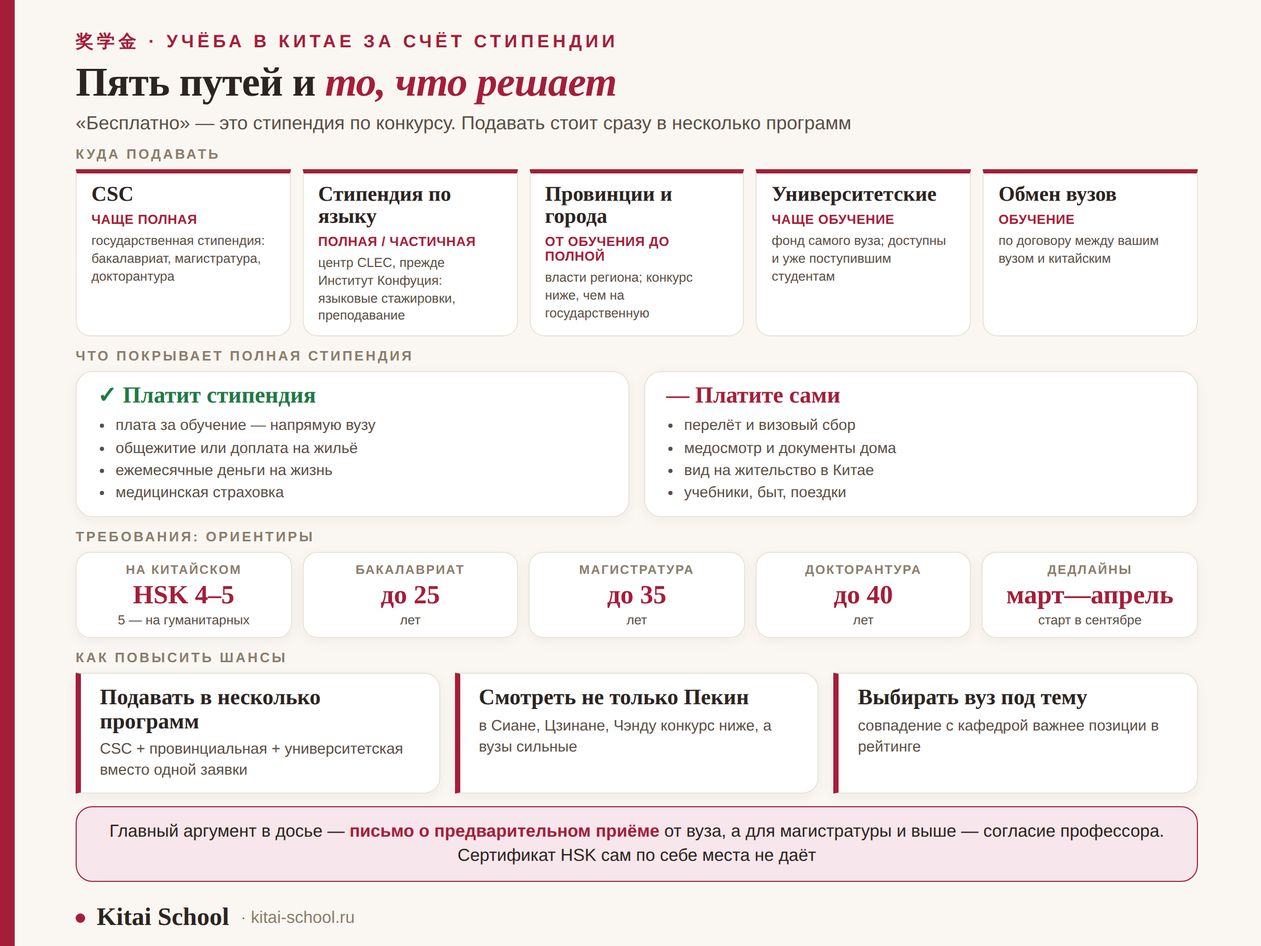
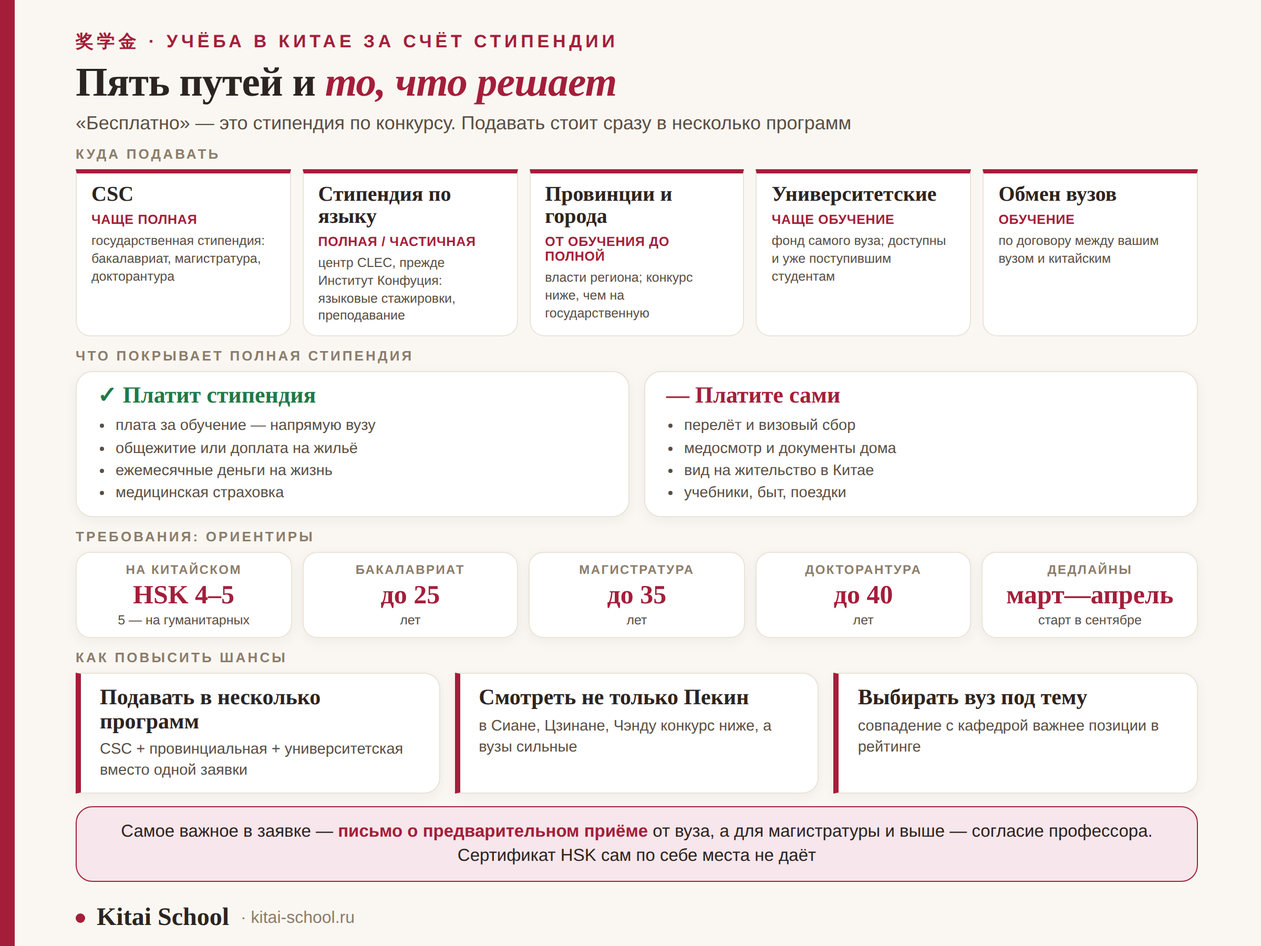
Убрано слово «досье» из статьи про бюджет и инфографики
Заменено на понятное «заявка»: «Самое важное в заявке», «не слабая
заявка, а опоздание», «поможем с заявкой». Инфографика перерисована,
деривативы пересобраны.

Claude-Session: https://claude.ai/code/session_017dS7Wuw6MNB5fnZSr6hVh2

Changed region(s): [[0.0938, 0.8711, 0.9375, 0.9022]]

diff --git a/content/blog/kak-postupit-v-kitaj-na-byudzhet.TILDA-BLOCK.html b/content/blog/kak-postupit-v-kitaj-na-byudzhet.TILDA-BLOCK.html
@@ -139,7 +139,7 @@
 
 <div class="tldr">
   <b>Коротко</b>
-  <p>Правильнее говорить не «бесплатно», а <b>за счёт стипендии</b>. Полная стипендия снимает плату за учёбу, даёт общежитие, страховку и деньги на жизнь; перелёт, визовый сбор и медосмотр остаются вашими. Путей к оплаченному месту <b>пять</b>: CSC, стипендия по китайскому языку, провинциальные, университетские и обменные программы. Требования: <b>HSK 4–5</b> для китайскоязычных программ, возрастные рамки, оценки и учебный план. Главный аргумент в досье — <b>письмо о предварительном приёме</b> от вуза.</p>
+  <p>Правильнее говорить не «бесплатно», а <b>за счёт стипендии</b>. Полная стипендия снимает плату за учёбу, даёт общежитие, страховку и деньги на жизнь; перелёт, визовый сбор и медосмотр остаются вашими. Путей к оплаченному месту <b>пять</b>: CSC, стипендия по китайскому языку, провинциальные, университетские и обменные программы. Требования: <b>HSK 4–5</b> для китайскоязычных программ, возрастные рамки, оценки и учебный план. Самое важное в заявке — <b>письмо о предварительном приёме</b> от вуза.</p>
 </div>
 
 <h2>Что значит «на бюджет»: <span class="italic">что покрывают и что нет</span></h2>
@@ -179,7 +179,7 @@
 </table>
 </div>
 <p>Самая частая рабочая стратегия — подавать одновременно на несколько программ: CSC через вуз, отдельно на провинциальную и на университетскую. Это не запрещено, а вот держать две китайские государственные стипендии одновременно нельзя — если выиграете обе, придётся выбрать одну.</p>
-<p class="note">Как устроена именно государственная стипендия — каналы подачи Type A, B и C, учебный план и интервью — мы разобрали подробно в <a href="https://kitai-school.ru/article/stipendiya-csc-v-kitae-polnyy-gayd-po-polucheniu-dlya-studentov" target="_blank" rel="noopener">полном гайде по стипендии CSC</a>. А сборку сильного досье — в статье <a href="https://kitai-school.ru/article/granty-na-obuchenie-v-kitae" target="_blank" rel="noopener">как выиграть грант на обучение в Китае</a>. Эта статья — общая карта, чтобы понять, куда идти.</p>
+<p class="note">Как устроена именно государственная стипендия — каналы подачи Type A, B и C, учебный план и интервью — мы разобрали подробно в <a href="https://kitai-school.ru/article/stipendiya-csc-v-kitae-polnyy-gayd-po-polucheniu-dlya-studentov" target="_blank" rel="noopener">полном гайде по стипендии CSC</a>. А как собрать сильную заявку — в статье <a href="https://kitai-school.ru/article/granty-na-obuchenie-v-kitae" target="_blank" rel="noopener">как выиграть грант на обучение в Китае</a>. Эта статья — общая карта, чтобы понять, куда идти.</p>
 
 <h2>Реальные требования: <span class="italic">язык, возраст, оценки</span></h2>
 <p>Требования отличаются по программам, но костяк везде один:</p>
@@ -189,7 +189,7 @@
   <thead><tr><th>Критерий</th><th>Что обычно требуется</th></tr></thead>
   <tbody>
     <tr><td>Язык (программы на китайском)</td><td><b>HSK 4</b> как минимум, на гуманитарных направлениях чаще <b>HSK 5</b></td></tr>
-    <tr><td>Язык (программы на английском)</td><td>IELTS или TOEFL; HSK не требуется, но плюс в досье</td></tr>
+    <tr><td>Язык (программы на английском)</td><td>IELTS или TOEFL; HSK не требуется, но будет плюсом</td></tr>
     <tr><td>Возраст</td><td>бакалавриат до 25, магистратура до 35, докторантура до 40 лет</td></tr>
     <tr><td>Образование</td><td>аттестат для бакалавриата, диплом предыдущей ступени — для остальных</td></tr>
     <tr><td>Оценки</td><td>средний балл выше среднего; слабые оценки перевешивают планом и рекомендациями</td></tr>
@@ -208,7 +208,7 @@
 </div>
 
 <h2>Календарь подачи: <span class="italic">когда что делать</span></h2>
-<p>Главная причина провала — не слабое досье, а опоздание. Документы вроде нотариального перевода и медосмотра готовятся неделями, поэтому отсчитывать нужно назад от дедлайна:</p>
+<p>Главная причина провала — не слабая заявка, а опоздание. Документы вроде нотариального перевода и медосмотра готовятся неделями, поэтому отсчитывать нужно назад от дедлайна:</p>
 <div class="table-wrap">
 <table>
   <caption>Примерный цикл подачи на сентябрьский набор.</caption>
@@ -290,7 +290,7 @@
 </div>
 
 <div class="cta">
-  <p>Языковой порог — то, что чаще всего отделяет от заявки. Мы готовим к <a href="https://kitai-school.ru/hsk-exam" target="_blank" rel="noopener">HSK 4 и HSK 5</a> и помогаем с учебным планом и письмами профессорам: разбираем формулировки, чтобы досье выглядело убедительно. Первый урок бесплатный.</p>
+  <p>Языковой порог — то, что чаще всего отделяет от заявки. Мы готовим к <a href="https://kitai-school.ru/hsk-exam" target="_blank" rel="noopener">HSK 4 и HSK 5</a> и помогаем с учебным планом и письмами профессорам: разбираем формулировки, чтобы заявка выглядела убедительно. Первый урок бесплатный.</p>
   <p><a class="btn" href="#popup:zayavka">Записаться на консультацию →</a></p>
   <p>Или напишите слово <b>БЮДЖЕТ</b> нашему менеджеру в <a href="https://telegram.me/manager_kitai_school" target="_blank" rel="noopener">Telegram</a> — подскажем, с чего начать в вашем случае.</p>
 </div>
@@ -334,7 +334,7 @@
     <a class="side-link" href="https://kitai-school.ru/onlayn-kursy-kitayskogo" target="_blank" rel="noopener"><svg viewBox="0 0 24 24" fill="none" stroke="currentColor" stroke-width="1.8" stroke-linecap="round" stroke-linejoin="round"><rect x="2" y="4" width="20" height="14" rx="2"/><path d="M8 21h8M12 18v3"/></svg>Онлайн-курсы</a>
     <a class="side-link" href="https://kitai-school.ru/ks-indiv" target="_blank" rel="noopener"><svg viewBox="0 0 24 24" fill="none" stroke="currentColor" stroke-width="1.8" stroke-linecap="round" stroke-linejoin="round"><circle cx="12" cy="8" r="4"/><path d="M4 21c0-4 3.5-6 8-6s8 2 8 6"/></svg>Индивидуально</a>
     <a class="side-link" href="https://kitai-school.ru/kitayskiy-dlya-detey" target="_blank" rel="noopener"><svg viewBox="0 0 24 24" fill="none" stroke="currentColor" stroke-width="1.8" stroke-linecap="round" stroke-linejoin="round"><circle cx="12" cy="12" r="9"/><path d="M9 10h.01M15 10h.01M8.5 15a4 4 0 0 0 7 0"/></svg>Китайский детям</a>
-    <p class="side-note">Доведём язык до HSK 4–5 и поможем с досье — первый урок бесплатно</p>
+    <p class="side-note">Доведём язык до HSK 4–5 и поможем с заявкой — первый урок бесплатно</p>
     <a class="side-btn" href="#popup:zayavka">Пробный урок →</a>
   </div>
 </aside>

diff --git a/content/blog/kak-postupit-v-kitaj-na-byudzhet.TILDA.html b/content/blog/kak-postupit-v-kitaj-na-byudzhet.TILDA.html
@@ -210,7 +210,7 @@
 
 <div class="tldr">
   <b>Коротко</b>
-  <p>Правильнее говорить не «бесплатно», а <b>за счёт стипендии</b>. Полная стипендия снимает плату за учёбу, даёт общежитие, страховку и деньги на жизнь; перелёт, визовый сбор и медосмотр остаются вашими. Путей к оплаченному месту <b>пять</b>: CSC, стипендия по китайскому языку, провинциальные, университетские и обменные программы. Требования: <b>HSK 4–5</b> для китайскоязычных программ, возрастные рамки, оценки и учебный план. Главный аргумент в досье — <b>письмо о предварительном приёме</b> от вуза.</p>
+  <p>Правильнее говорить не «бесплатно», а <b>за счёт стипендии</b>. Полная стипендия снимает плату за учёбу, даёт общежитие, страховку и деньги на жизнь; перелёт, визовый сбор и медосмотр остаются вашими. Путей к оплаченному месту <b>пять</b>: CSC, стипендия по китайскому языку, провинциальные, университетские и обменные программы. Требования: <b>HSK 4–5</b> для китайскоязычных программ, возрастные рамки, оценки и учебный план. Самое важное в заявке — <b>письмо о предварительном приёме</b> от вуза.</p>
 </div>
 
 <h2>Что значит «на бюджет»: <span class="italic">что покрывают и что нет</span></h2>
@@ -250,7 +250,7 @@
 </table>
 </div>
 <p>Самая частая рабочая стратегия — подавать одновременно на несколько программ: CSC через вуз, отдельно на провинциальную и на университетскую. Это не запрещено, а вот держать две китайские государственные стипендии одновременно нельзя — если выиграете обе, придётся выбрать одну.</p>
-<p class="note">Как устроена именно государственная стипендия — каналы подачи Type A, B и C, учебный план и интервью — мы разобрали подробно в <a href="https://kitai-school.ru/article/stipendiya-csc-v-kitae-polnyy-gayd-po-polucheniu-dlya-studentov" target="_blank" rel="noopener">полном гайде по стипендии CSC</a>. А сборку сильного досье — в статье <a href="https://kitai-school.ru/article/granty-na-obuchenie-v-kitae" target="_blank" rel="noopener">как выиграть грант на обучение в Китае</a>. Эта статья — общая карта, чтобы понять, куда идти.</p>
+<p class="note">Как устроена именно государственная стипендия — каналы подачи Type A, B и C, учебный план и интервью — мы разобрали подробно в <a href="https://kitai-school.ru/article/stipendiya-csc-v-kitae-polnyy-gayd-po-polucheniu-dlya-studentov" target="_blank" rel="noopener">полном гайде по стипендии CSC</a>. А как собрать сильную заявку — в статье <a href="https://kitai-school.ru/article/granty-na-obuchenie-v-kitae" target="_blank" rel="noopener">как выиграть грант на обучение в Китае</a>. Эта статья — общая карта, чтобы понять, куда идти.</p>
 
 <h2>Реальные требования: <span class="italic">язык, возраст, оценки</span></h2>
 <p>Требования отличаются по программам, но костяк везде один:</p>
@@ -260,7 +260,7 @@
   <thead><tr><th>Критерий</th><th>Что обычно требуется</th></tr></thead>
   <tbody>
     <tr><td>Язык (программы на китайском)</td><td><b>HSK 4</b> как минимум, на гуманитарных направлениях чаще <b>HSK 5</b></td></tr>
-    <tr><td>Язык (программы на английском)</td><td>IELTS или TOEFL; HSK не требуется, но плюс в досье</td></tr>
+    <tr><td>Язык (программы на английском)</td><td>IELTS или TOEFL; HSK не требуется, но будет плюсом</td></tr>
     <tr><td>Возраст</td><td>бакалавриат до 25, магистратура до 35, докторантура до 40 лет</td></tr>
     <tr><td>Образование</td><td>аттестат для бакалавриата, диплом предыдущей ступени — для остальных</td></tr>
     <tr><td>Оценки</td><td>средний балл выше среднего; слабые оценки перевешивают планом и рекомендациями</td></tr>
@@ -279,7 +279,7 @@
 </div>
 
 <h2>Календарь подачи: <span class="italic">когда что делать</span></h2>
-<p>Главная причина провала — не слабое досье, а опоздание. Документы вроде нотариального перевода и медосмотра готовятся неделями, поэтому отсчитывать нужно назад от дедлайна:</p>
+<p>Главная причина провала — не слабая заявка, а опоздание. Документы вроде нотариального перевода и медосмотра готовятся неделями, поэтому отсчитывать нужно назад от дедлайна:</p>
 <div class="table-wrap">
 <table>
   <caption>Примерный цикл подачи на сентябрьский набор.</caption>
@@ -361,7 +361,7 @@
 </div>
 
 <div class="cta">
-  <p>Языковой порог — то, что чаще всего отделяет от заявки. Мы готовим к <a href="https://kitai-school.ru/hsk-exam" target="_blank" rel="noopener">HSK 4 и HSK 5</a> и помогаем с учебным планом и письмами профессорам: разбираем формулировки, чтобы досье выглядело убедительно. Первый урок бесплатный.</p>
+  <p>Языковой порог — то, что чаще всего отделяет от заявки. Мы готовим к <a href="https://kitai-school.ru/hsk-exam" target="_blank" rel="noopener">HSK 4 и HSK 5</a> и помогаем с учебным планом и письмами профессорам: разбираем формулировки, чтобы заявка выглядела убедительно. Первый урок бесплатный.</p>
   <p><a class="btn" href="#popup:zayavka">Записаться на консультацию →</a></p>
   <p>Или напишите слово <b>БЮДЖЕТ</b> нашему менеджеру в <a href="https://telegram.me/manager_kitai_school" target="_blank" rel="noopener">Telegram</a> — подскажем, с чего начать в вашем случае.</p>
 </div>
@@ -405,7 +405,7 @@
     <a class="side-link" href="https://kitai-school.ru/onlayn-kursy-kitayskogo" target="_blank" rel="noopener"><svg viewBox="0 0 24 24" fill="none" stroke="currentColor" stroke-width="1.8" stroke-linecap="round" stroke-linejoin="round"><rect x="2" y="4" width="20" height="14" rx="2"/><path d="M8 21h8M12 18v3"/></svg>Онлайн-курсы</a>
     <a class="side-link" href="https://kitai-school.ru/ks-indiv" target="_blank" rel="noopener"><svg viewBox="0 0 24 24" fill="none" stroke="currentColor" stroke-width="1.8" stroke-linecap="round" stroke-linejoin="round"><circle cx="12" cy="8" r="4"/><path d="M4 21c0-4 3.5-6 8-6s8 2 8 6"/></svg>Индивидуально</a>
     <a class="side-link" href="https://kitai-school.ru/kitayskiy-dlya-detey" target="_blank" rel="noopener"><svg viewBox="0 0 24 24" fill="none" stroke="currentColor" stroke-width="1.8" stroke-linecap="round" stroke-linejoin="round"><circle cx="12" cy="12" r="9"/><path d="M9 10h.01M15 10h.01M8.5 15a4 4 0 0 0 7 0"/></svg>Китайский детям</a>
-    <p class="side-note">Доведём язык до HSK 4–5 и поможем с досье — первый урок бесплатно</p>
+    <p class="side-note">Доведём язык до HSK 4–5 и поможем с заявкой — первый урок бесплатно</p>
     <a class="side-btn" href="#popup:zayavka">Пробный урок →</a>
   </div>
 </aside>

diff --git a/content/blog/kak-postupit-v-kitaj-na-byudzhet.html b/content/blog/kak-postupit-v-kitaj-na-byudzhet.html
@@ -248,7 +248,7 @@
 
 <div class="tldr">
   <b>Коротко</b>
-  <p>Правильнее говорить не «бесплатно», а <b>за счёт стипендии</b>. Полная стипендия снимает плату за учёбу, даёт общежитие, страховку и деньги на жизнь; перелёт, визовый сбор и медосмотр остаются вашими. Путей к оплаченному месту <b>пять</b>: CSC, стипендия по китайскому языку, провинциальные, университетские и обменные программы. Требования: <b>HSK 4–5</b> для китайскоязычных программ, возрастные рамки, оценки и учебный план. Главный аргумент в досье — <b>письмо о предварительном приёме</b> от вуза.</p>
+  <p>Правильнее говорить не «бесплатно», а <b>за счёт стипендии</b>. Полная стипендия снимает плату за учёбу, даёт общежитие, страховку и деньги на жизнь; перелёт, визовый сбор и медосмотр остаются вашими. Путей к оплаченному месту <b>пять</b>: CSC, стипендия по китайскому языку, провинциальные, университетские и обменные программы. Требования: <b>HSK 4–5</b> для китайскоязычных программ, возрастные рамки, оценки и учебный план. Самое важное в заявке — <b>письмо о предварительном приёме</b> от вуза.</p>
 </div>
 
 <h2>Что значит «на бюджет»: <span class="italic">что покрывают и что нет</span></h2>
@@ -288,7 +288,7 @@
 </table>
 </div>
 <p>Самая частая рабочая стратегия — подавать одновременно на несколько программ: CSC через вуз, отдельно на провинциальную и на университетскую. Это не запрещено, а вот держать две китайские государственные стипендии одновременно нельзя — если выиграете обе, придётся выбрать одну.</p>
-<p class="note">Как устроена именно государственная стипендия — каналы подачи Type A, B и C, учебный план и интервью — мы разобрали подробно в <a href="https://kitai-school.ru/article/stipendiya-csc-v-kitae-polnyy-gayd-po-polucheniu-dlya-studentov" target="_blank" rel="noopener">полном гайде по стипендии CSC</a>. А сборку сильного досье — в статье <a href="https://kitai-school.ru/article/granty-na-obuchenie-v-kitae" target="_blank" rel="noopener">как выиграть грант на обучение в Китае</a>. Эта статья — общая карта, чтобы понять, куда идти.</p>
+<p class="note">Как устроена именно государственная стипендия — каналы подачи Type A, B и C, учебный план и интервью — мы разобрали подробно в <a href="https://kitai-school.ru/article/stipendiya-csc-v-kitae-polnyy-gayd-po-polucheniu-dlya-studentov" target="_blank" rel="noopener">полном гайде по стипендии CSC</a>. А как собрать сильную заявку — в статье <a href="https://kitai-school.ru/article/granty-na-obuchenie-v-kitae" target="_blank" rel="noopener">как выиграть грант на обучение в Китае</a>. Эта статья — общая карта, чтобы понять, куда идти.</p>
 
 <h2>Реальные требования: <span class="italic">язык, возраст, оценки</span></h2>
 <p>Требования отличаются по программам, но костяк везде один:</p>
@@ -298,7 +298,7 @@
   <thead><tr><th>Критерий</th><th>Что обычно требуется</th></tr></thead>
   <tbody>
     <tr><td>Язык (программы на китайском)</td><td><b>HSK 4</b> как минимум, на гуманитарных направлениях чаще <b>HSK 5</b></td></tr>
-    <tr><td>Язык (программы на английском)</td><td>IELTS или TOEFL; HSK не требуется, но плюс в досье</td></tr>
+    <tr><td>Язык (программы на английском)</td><td>IELTS или TOEFL; HSK не требуется, но будет плюсом</td></tr>
     <tr><td>Возраст</td><td>бакалавриат до 25, магистратура до 35, докторантура до 40 лет</td></tr>
     <tr><td>Образование</td><td>аттестат для бакалавриата, диплом предыдущей ступени — для остальных</td></tr>
     <tr><td>Оценки</td><td>средний балл выше среднего; слабые оценки перевешивают планом и рекомендациями</td></tr>
@@ -317,7 +317,7 @@
 </div>
 
 <h2>Календарь подачи: <span class="italic">когда что делать</span></h2>
-<p>Главная причина провала — не слабое досье, а опоздание. Документы вроде нотариального перевода и медосмотра готовятся неделями, поэтому отсчитывать нужно назад от дедлайна:</p>
+<p>Главная причина провала — не слабая заявка, а опоздание. Документы вроде нотариального перевода и медосмотра готовятся неделями, поэтому отсчитывать нужно назад от дедлайна:</p>
 <div class="table-wrap">
 <table>
   <caption>Примерный цикл подачи на сентябрьский набор.</caption>
@@ -399,7 +399,7 @@
 </div>
 
 <div class="cta">
-  <p>Языковой порог — то, что чаще всего отделяет от заявки. Мы готовим к <a href="https://kitai-school.ru/hsk-exam" target="_blank" rel="noopener">HSK 4 и HSK 5</a> и помогаем с учебным планом и письмами профессорам: разбираем формулировки, чтобы досье выглядело убедительно. Первый урок бесплатный.</p>
+  <p>Языковой порог — то, что чаще всего отделяет от заявки. Мы готовим к <a href="https://kitai-school.ru/hsk-exam" target="_blank" rel="noopener">HSK 4 и HSK 5</a> и помогаем с учебным планом и письмами профессорам: разбираем формулировки, чтобы заявка выглядела убедительно. Первый урок бесплатный.</p>
   <p><a class="btn" href="#popup:zayavka">Записаться на консультацию →</a></p>
   <p>Или напишите слово <b>БЮДЖЕТ</b> нашему менеджеру в <a href="https://telegram.me/manager_kitai_school" target="_blank" rel="noopener">Telegram</a> — подскажем, с чего начать в вашем случае.</p>
 </div>
@@ -443,7 +443,7 @@
     <a class="side-link" href="https://kitai-school.ru/onlayn-kursy-kitayskogo" target="_blank" rel="noopener"><svg viewBox="0 0 24 24" fill="none" stroke="currentColor" stroke-width="1.8" stroke-linecap="round" stroke-linejoin="round"><rect x="2" y="4" width="20" height="14" rx="2"/><path d="M8 21h8M12 18v3"/></svg>Онлайн-курсы</a>
     <a class="side-link" href="https://kitai-school.ru/ks-indiv" target="_blank" rel="noopener"><svg viewBox="0 0 24 24" fill="none" stroke="currentColor" stroke-width="1.8" stroke-linecap="round" stroke-linejoin="round"><circle cx="12" cy="8" r="4"/><path d="M4 21c0-4 3.5-6 8-6s8 2 8 6"/></svg>Индивидуально</a>
     <a class="side-link" href="https://kitai-school.ru/kitayskiy-dlya-detey" target="_blank" rel="noopener"><svg viewBox="0 0 24 24" fill="none" stroke="currentColor" stroke-width="1.8" stroke-linecap="round" stroke-linejoin="round"><circle cx="12" cy="12" r="9"/><path d="M9 10h.01M15 10h.01M8.5 15a4 4 0 0 0 7 0"/></svg>Китайский детям</a>
-    <p class="side-note">Доведём язык до HSK 4–5 и поможем с досье — первый урок бесплатно</p>
+    <p class="side-note">Доведём язык до HSK 4–5 и поможем с заявкой — первый урок бесплатно</p>
     <a class="side-btn" href="#popup:zayavka">Пробный урок →</a>
   </div>
 </aside>
